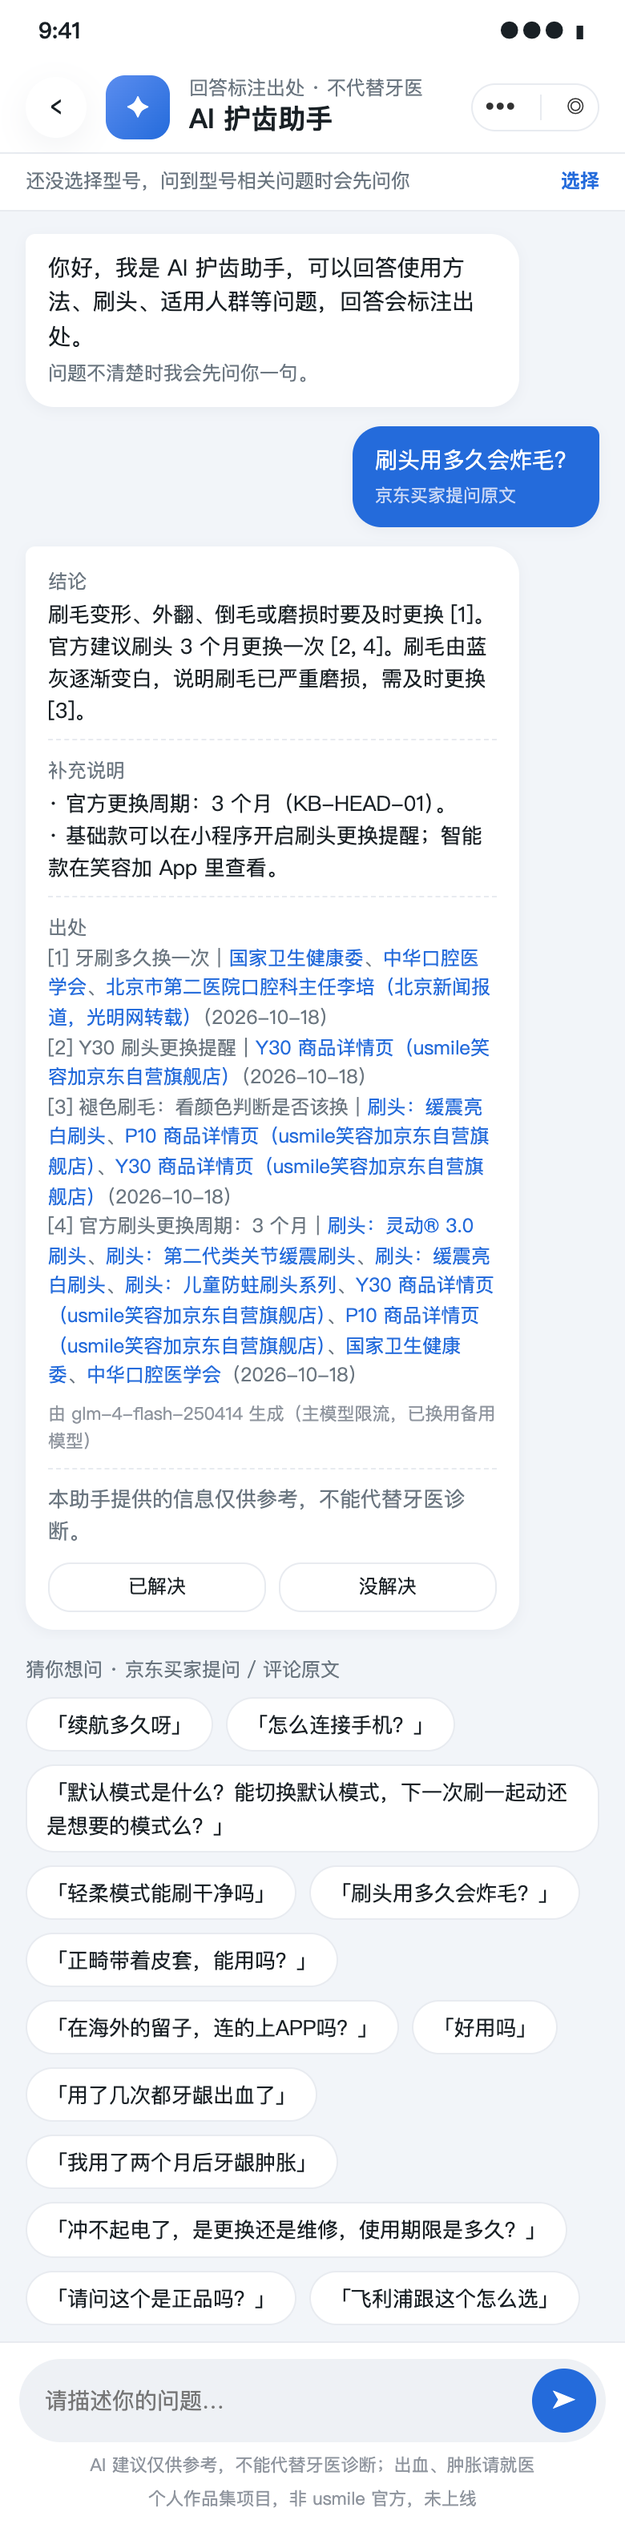
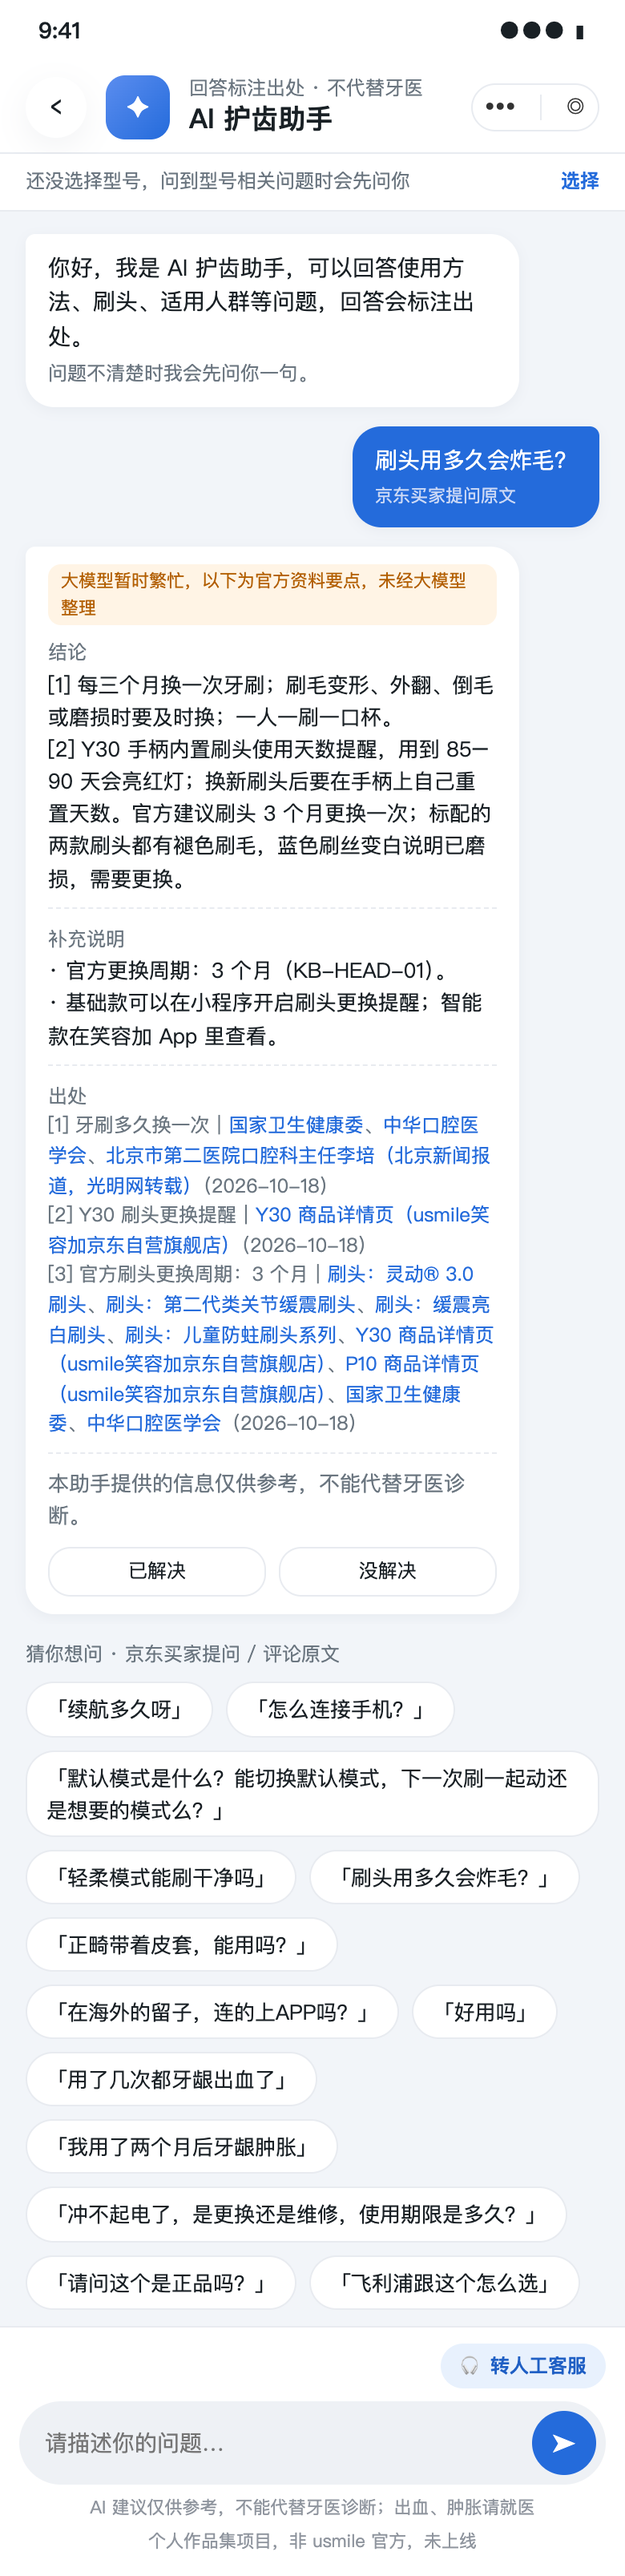
问答页加“转人工客服”入口（D49）；回答不了时卡片内也可联系官方客服
- web：输入框上方常驻入口 + 底部弹层（KB-SVC-01 官方客服渠道，带出处，注明 Demo 不接真实客服）；no_evidence / 资料要点时卡片内按钮
- 页面文件不缓存（NoCacheStatic），脚本地址加版本号
- 截图重跑 21 张（新增 10b 客服弹层），DECISIONS D49

diff --git a/web/index.html b/web/index.html
@@ -240,6 +240,9 @@ input[type=date]{padding:10px 12px;border:1.5px solid var(--line);border-radius:
 .gen{font-size:11px;color:var(--ph-text);margin-top:6px}
 .modepill{display:inline-block;font-size:11px;color:var(--amber);background:var(--amber-weak);border-radius:8px;padding:2px 8px;margin-bottom:6px}
 .msg .sec a{word-break:break-all}
+.humanbar{display:flex;justify-content:flex-end;margin:0 12px 8px}
+.humanbar button{font-size:12px;font-weight:600;color:var(--brand-text);background:var(--brand-weak);border-radius:14px;padding:5px 12px}
+.svcbtn{display:inline-block;margin-top:8px;background:var(--card);color:var(--brand-text);border:1.5px solid #9db8ef;border-radius:16px;padding:5px 14px;font-size:13px;font-weight:600}
 @media (max-width:700px){
   .stage{padding:0;display:block}
   .side{display:none}
@@ -517,11 +520,26 @@ input[type=date]{padding:10px 12px;border:1.5px solid var(--line);border-radius:
         </div>
       </div>
       <div class="chatfoot">
+        <div class="humanbar"><button id="humanBtn">🎧 转人工客服</button></div>
         <div class="inputbar"><input id="chatInput" placeholder="请描述你的问题…"><button id="sendBtn" aria-label="发送">➤</button></div>
         <div class="inputnote">AI 建议仅供参考，不能代替牙医诊断；出血、肿胀请就医</div>
         <div class="foot" style="padding-top:4px;padding-bottom:12px">个人作品集项目，非 usmile 官方，未上线</div>
       </div>
       <!-- 安全边界：触发特定场景时由 AI 助手弹出，不是单独页面 -->
+      <!-- 转人工客服：输入框上方入口 + 回答不了时卡片内按钮（D49）；Demo 不接入真实客服系统，只展示官方客服渠道 -->
+      <div class="mask" id="svcMask">
+        <div class="sheet bsheet">
+          <div class="grip"></div>
+          <div class="kind">转人工客服</div>
+          <div class="alert">
+            <div class="h">联系 usmile 官方客服</div>
+            <div class="sub" id="humanText">正在读取官方客服渠道…</div>
+          </div>
+          <div class="small" id="humanSrc" style="margin:0 4px 12px"></div>
+          <div class="disclaimer" style="margin:0 0 12px">Demo 不接入真实客服系统，以上为知识库里的 usmile 官方客服渠道（抓取日期 2026-10-18）。</div>
+          <button class="btn ghost" id="humanClose">知道了</button>
+        </div>
+      </div>
       <div class="mask" id="bMask">
         <div class="sheet bsheet">
           <div class="grip"></div>
@@ -569,6 +587,6 @@ input[type=date]{padding:10px 12px;border:1.5px solid var(--line);border-radius:
   </div>
 </div>
 
-<script src="app.js"></script>
+<script src="app.js?v=2"></script>
 </body>
 </html>

diff --git a/web/app.js b/web/app.js
@@ -325,6 +325,7 @@
     if (notices.length) html += '<div class="sec"><span class="k">补充说明</span><br>' + notices.map(function (n) { return '· ' + esc(n); }).join('<br>')
       + ((r.actions || []).indexOf('go_app') >= 0 ? '<br><button class="appbtn" data-app>去笑容加 App 设置 ›</button>' : '') + '</div>';
     else if ((r.actions || []).indexOf('go_app') >= 0) html += '<div class="sec"><button class="appbtn" data-app>去笑容加 App 设置 ›</button></div>';
+    if ((r.actions || []).indexOf('contact_service') >= 0) html += '<div class="sec"><button class="svcbtn" data-human>联系官方客服 ›</button></div>';
     html += citeHtml(r.citations) + genNote(r) + DISC + '<div class="feedback"><button>已解决</button><button>没解决</button></div>';
     return html;
   }
@@ -355,6 +356,7 @@
   }
   $('#chatBox').addEventListener('click', function (e) {
     if (e.target.closest('[data-app]')) { toast('Demo 不跳转笑容加 App · 跳转方式' + PENDING); return; }
+    if (e.target.closest('[data-human]')) { openHuman(); return; }
     var fb = e.target.closest('.feedback button'); if (fb) { $$('button', fb.parentNode).forEach(function (b) { b.classList.remove('sel'); }); fb.classList.add('sel'); return; }
     var rq = e.target.closest('[data-recq]');
     if (rq && !rq.disabled) { $$('[data-recq]', rq.parentNode).forEach(function (b) { b.disabled = true; }); ask(rq.textContent); return; }
@@ -373,6 +375,22 @@
   };
   $('#sendBtn').onclick = function () { var v = $('#chatInput').value.trim(); if (!v) return; $('#chatInput').value = ''; ask(v); };
   $('#chatInput').addEventListener('keydown', function (e) { if (e.key === 'Enter') $('#sendBtn').click(); });
+
+  // ---------- 转人工客服（D49）：内容来自知识库 KB-SVC-01 ----------
+  var human = null;
+  function openHuman() {
+    $('#svcMask').classList.add('on');
+    if (human) return;
+    api('/kb/KB-SVC-01').then(function (r) {
+      human = r;
+      $('#humanText').innerHTML = val(r.text);
+      var c = r.citations[0];
+      $('#humanSrc').innerHTML = c ? '出处：' + c.sources.map(function (s) { return s.url ? '<a href="' + s.url + '" target="_blank">' + esc(s.name) + '</a>' : esc(s.name); }).join('、') + '（' + esc(c.fetched) + '）' : '';
+    }).catch(function () { $('#humanText').innerHTML = val(PENDING); });
+  }
+  $('#humanBtn').onclick = openHuman;
+  $('#humanClose').onclick = function () { $('#svcMask').classList.remove('on'); };
+  $('#svcMask').onclick = function (e) { if (e.target === this) this.classList.remove('on'); };
 
   // ---------- 安全边界弹窗：类别由后端规则判断 ----------
   var svcUrl = '';

diff --git a/src/api.py b/src/api.py
@@ -126,5 +126,14 @@ def kb_note(chunk_id: str):
 
 
 app.include_router(api)
+class NoCacheStatic(StaticFiles):
+    """页面文件不缓存：前端改动后刷新就能看到（Demo 用）。"""
+
+    async def get_response(self, path, scope):
+        resp = await super().get_response(path, scope)
+        resp.headers["Cache-Control"] = "no-cache"
+        return resp
+
+
 if WEB_DIR.exists():
-    app.mount("/", StaticFiles(directory=WEB_DIR, html=True), name="web")
+    app.mount("/", NoCacheStatic(directory=WEB_DIR, html=True), name="web")

diff --git a/src/shoot_web.py b/src/shoot_web.py
@@ -121,6 +121,10 @@ def main():
         page.wait_for_timeout(1200)
         chip("刷头用多久会炸毛")
         shot("10_chat_answer_cited")
+        css("#humanBtn")
+        page.wait_for_function("() => !document.querySelector('#humanText').textContent.includes('正在读取')")
+        shot("10b_human_service_sheet", full=False)
+        css("#humanClose")
         chip("续航多久呀")
         shot("11a_chat_followup")
         page.locator("#chatBox [data-model='P10']").last.click()

diff --git a/docs/DECISIONS.md b/docs/DECISIONS.md
@@ -53,3 +53,4 @@
 | D46 | 2026-10-19 | 新前端（prototype/index.html）接入后端的方式与 17 处前后端不一致（Melody 逐条确认） | — | 部署：复制到 `web/` 只改 JS 接接口，FastAPI 同时提供页面和 `/api/*`，本机运行不上线，Streamlit 保留作备用。① 测评第 1 题去掉“自己填写”，价位段用后端 4 段（D39，**回答 D45 待确认项**）；② 第 2–4 题自填不参与打分，交给 AI 助手参考；③ 推荐卡在理由格子下加理由文字，不显示出处（效果不佳可撤回）；④ 使用注意用后端的官方起始模式（D39）；⑤ “去购买”加购买链接：有京东官方自营详情页的型号（S01–S03）用详情页，其余用官网购买渠道页（S12）；⑥ 问 AI 助手时把测评第 2–5 题（含自填）作为用户情况传给问答，不传预算；⑦ 去掉“预算内没有型号”演示按钮；⑧ “我的牙刷”列出 App 支持已确认的 11 个型号，界面不标款式，待核实的不列；⑨ 首次设置结果栏目改为后端 4 项，去掉“最低档”；⑩ 用户说自己出血一律弹就医提示（规则改保守）；⑪ 支持 App 的型号自动带模拟设备数据（后端只在问题和刷牙习惯相关时使用）；⑫ 追问型号只列 ⑧ 的 11 个 + 我不确定；⑬ 回答卡底部灰字注明生成模型和兜底模式；⑭ 回答卡：正文 = 结论，提示语 = 补充说明，出处列名称和链接；⑮ 急症自动显示急症样式，去掉演示按钮；⑯ 反馈按钮只在页面显示，不记录；⑰ 改完重截一版发 PRD 会话 | 前端设计是 Melody 定稿的，结构和样式不动，只把占位换成真实数据；不一致处逐条确认后再改 |
 | D47 | 2026-10-19 | PRD 同步 Demo 与评测结果（Claude 执行 D39、D41–D46 的回填） | — | ① D45 待确认项按 D46 关闭：第 1 题不能自己填写，4 个价位段（京东官方自营标价快照）；第 2–4 题自填只给 AI 助手参考；② 推荐卡、问 AI 助手（传第 2–5 题，不传预算）、首次设置 4 项、回答卡注明模型、出血肿胀一律弹就医提示、“我的牙刷”和追问只列已确认 App 支持情况的 11 个型号，全部写进 2.3；③ E-15 验收场景改为按官方资料如实回答地区限制；④ 5.3 写入主备模型和 Demo 中的发现，新增 8.6 两轮评测结果（正确率 62.5% 未达 80%，如实写），9.2 / 9.3 写入防错规则和限流处理；⑤ 待决问题拆成“仍待决”和“已解决”；⑥ 第十章改用接入后端后的 Demo 截图（12 张） | 与已确认决策一致；评测数字只用 v2 真实结果（铁律 3、D44）；Demo 截图是真实输出，比原型占位更能说明产品 |
 | D48 | 2026-10-19 | 大模型答不上来时没有引导联系客服（Melody 走查发现） | — | 问答退回“官方资料要点”时（模型没整理出可靠回答），在回答卡“补充说明”里加官方客服入口（KB-SVC-01：热线、在线客服、公众号），出处加客服来源；完全没有依据时原本就给客服入口。只改后端返回内容，不改页面结构 | 例：「如何重置牙刷与 app」知识库没有官方说明，原来只展示了不相关的 App 功能资料，用户不知道下一步找谁 |
+| D49 | 2026-10-19 | 推荐卡进入 AI 助手的设计；转人工客服入口（Melody 选定） | 推荐卡入口：A 一步给出“继续了解 / 看备选 / 其他型号 / 通用问题” / B 先选再问 / C 维持现状；客服入口：只在回答不了时出现 / 另加常驻入口 | 推荐卡入口维持现状（C）。问答页输入框上方加常驻“转人工客服”入口，打开底部弹层显示官方客服渠道（KB-SVC-01，带出处，注明 Demo 不接入真实客服系统）；回答不了（没有可靠资料 / 只给资料要点）时，回答卡内也有“联系官方客服”按钮打开同一弹层。页面文件设为不缓存 | 用户随时能找到人工渠道，不必等到助手答不上来；内容只用知识库里的官方渠道，不编造客服能力 |

diff --git a/docs/screenshots_web/README.md b/docs/screenshots_web/README.md
@@ -1,7 +1,7 @@
 # 新前端截图（web/，D46，2026-10-19）
 
 > 个人作品集项目，非 usmile 官方，未上线。
-> 界面来自 Melody 定稿的 `prototype/index.html`，接入真实后端后由 `.venv/bin/python src/shoot_web.py` 按真实点击流程生成（390×844 手机视口，2 倍图），20 张，横向溢出检查 0 问题。弹窗（09b、12a–12d）只截一屏，其余整页。
+> 界面来自 Melody 定稿的 `prototype/index.html`，接入真实后端后由 `.venv/bin/python src/shoot_web.py` 按真实点击流程生成（390×844 手机视口，2 倍图），21 张，横向溢出检查 0 问题。弹窗（09b、10b、12a–12d）只截一屏，其余整页。
 > 提问全部是京东买家提问 / 评论原文（`src/check_quotes.py` 核对 0 错误）；回答是截图当时后端的真实输出，卡片底部注明生成的模型。型号、价格、参数、出处只来自 `kb/`。模拟设备数据只出现在 `13`，红框标注“模拟设备数据，仅作演示，非真实用户”。
 
 | 文件 | 内容 | 对应 PRD |
@@ -16,6 +16,7 @@
 | `08a_sync_consent` / `08b_sync_done` | 画像同步授权（4 项，不含预算）/ 同意后 | 2.3.10 |
 | `09a_setup_basic` / `09b_subscribe_sheet` | P10 首次设置（官方起始模式）+ 刷头更换日期 / 模拟订阅授权弹窗 | 2.3.4、2.3.7 |
 | `10_chat_answer_cited` | 「刷头用多久会炸毛？」(Q035) 结论 + 补充说明 + 出处 + 模型 | 2.3.5 |
+| `10b_human_service_sheet` | 问答页输入框上方“转人工客服”入口打开的官方客服渠道（KB-SVC-01，Demo 不接入真实客服，D49）；回答不了时回答卡里也有“联系官方客服”按钮 | 2.3.5、2.3.6 |
 | `11a_chat_followup` / `11b_chat_followup_answer` | 「续航多久呀」(Q052) 先追问型号，选 P10 后回答 | 2.3.5 |
 | `11c_chat_subjective` | 「好用吗」(Q002) 不下结论，引导测评 | 2.3.5 |
 | `12a_boundary_medical` | 「用了几次都牙龈出血了」(R146) 就医提示弹窗 | 2.3.6 |
